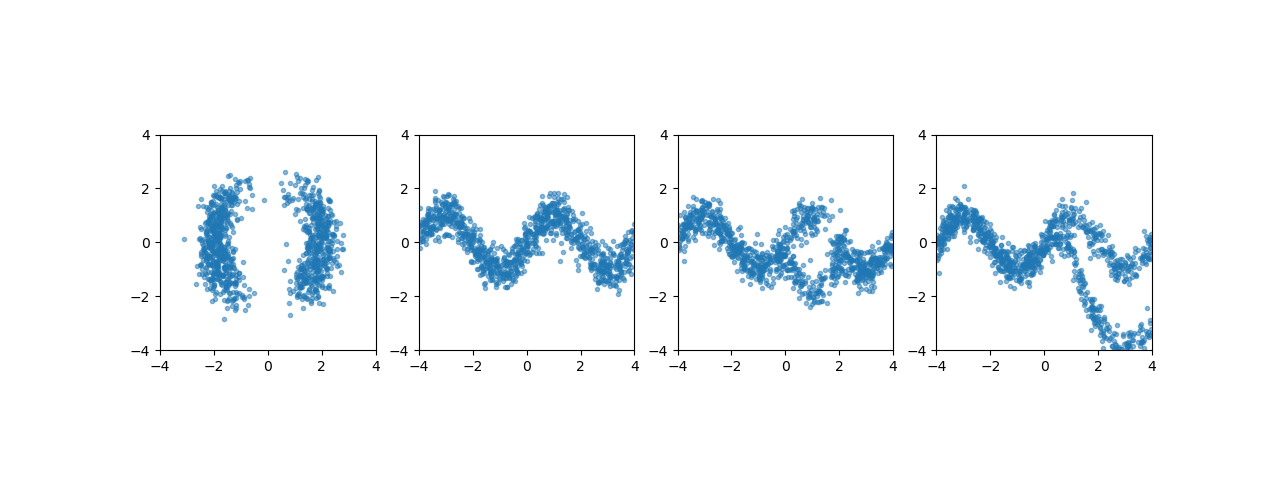
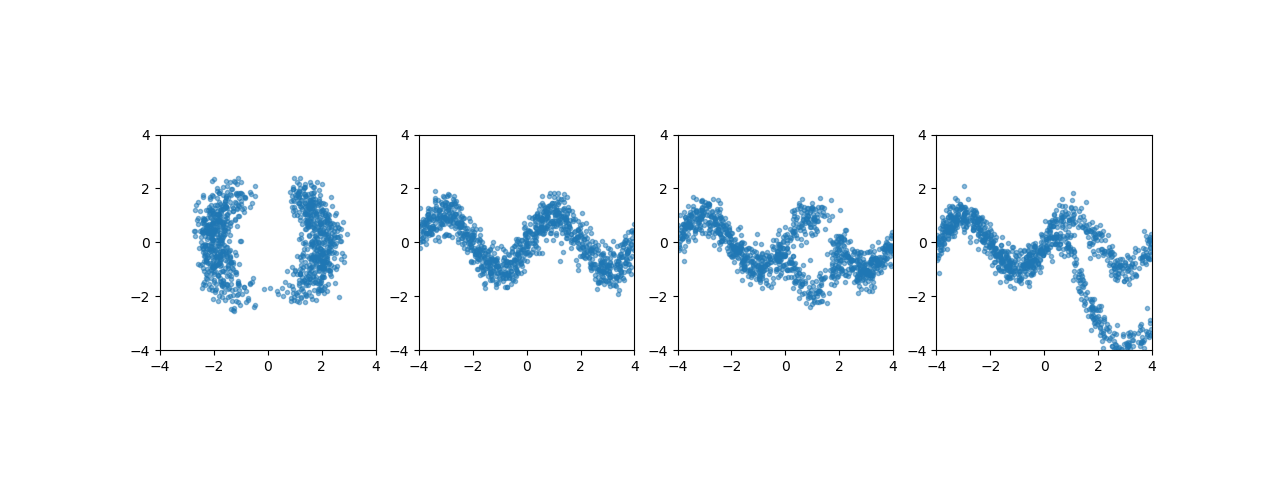
update figure

Changed region(s): [[0.125, 0.3438, 0.2812, 0.6562]]

diff --git a/script/functions.py b/script/functions.py
@@ -16,26 +16,26 @@ def compute_U1(z):
     mask = torch.ones_like(z)
     mask[:, 1] = 0.0
 
-    U = -(0.5*((torch.norm(z, dim = -1) - 2)/0.4)**2 - \
+    U = (0.5*((torch.norm(z, dim = -1) - 2)/0.4)**2 - \
              torch.sum(mask*torch.log(torch.exp(-0.5*((z - 2)/0.6)**2) +
                                       torch.exp(-0.5*((z + 2)/0.6)**2)), -1))    
     return U
 
 def compute_U2(z):
     w1 = torch.sin(2*math.pi*z[:,0]/4)
-    U = -0.5*((z[:,1] - w1)/0.4)**2    
+    U = 0.5*((z[:,1] - w1)/0.4)**2    
     return U
 
 def compute_U3(z):
     w1 = torch.sin(2*math.pi*z[:,0]/4)
     w2 = 3*torch.exp(-0.5*((z[:,0] - 1)/0.6)**2)
-    U = torch.log(torch.exp(-0.5*((z[:,1] - w1)/0.35)**2) + torch.exp(-0.5*((z[:,1] - w1 + w2)/0.35)**2))
+    U = -torch.log(torch.exp(-0.5*((z[:,1] - w1)/0.35)**2) + torch.exp(-0.5*((z[:,1] - w1 + w2)/0.35)**2))
     return U
     
 def compute_U4(z):
     w1 = torch.sin(2*math.pi*z[:,0]/4)
     w3 = 3*torch.sigmoid((z[:,0] - 1)/0.3)    
-    U = torch.log(torch.exp(-0.5*((z[:,1] - w1)/0.35)**2) + torch.exp(-0.5*((z[:,1] - w1 + w3)/0.35)**2))
+    U = -torch.log(torch.exp(-0.5*((z[:,1] - w1)/0.35)**2) + torch.exp(-0.5*((z[:,1] - w1 + w3)/0.35)**2))
     return U
 
 def _generate_grid():
@@ -55,25 +55,25 @@ def test_U():
     plt.subplot(1,4,1)
     U1 = compute_U1(z)
     U1 = U1.reshape(100, 100)    
-    p1 = torch.exp(U1)
+    p1 = torch.exp(-U1)
     plt.imshow(p1.T, origin = "lower", extent = (-4,4,-4,4))
     
     plt.subplot(1,4,2)
     U2 = compute_U2(z)
     U2 = U2.reshape(100, 100)    
-    p2 = torch.exp(U2)
+    p2 = torch.exp(-U2)
     plt.imshow(p2.T, origin = "lower", extent = (-4,4,-4,4))    
 
     plt.subplot(1,4,3)
     U3 = compute_U3(z)
     U3 = U3.reshape(100, 100)    
-    p3 = torch.exp(U3)
+    p3 = torch.exp(-U3)
     plt.imshow(p3.T, origin = "lower", extent = (-4,4,-4,4))    
     
     plt.subplot(1,4,4)
     U4 = compute_U4(z)
     U4 = U4.reshape(100, 100)    
-    p4 = torch.exp(U4)
+    p4 = torch.exp(-U4)
     plt.imshow(p4.T, origin = "lower", extent = (-4,4,-4,4))    
     
     plt.savefig("./output/true_prop.png")

diff --git a/script/learn_by_potential.py b/script/learn_by_potential.py
@@ -43,7 +43,7 @@ if torch.cuda.device_count():
     realNVP = realNVP.cuda()
     
 optimizer = optim.Adam(realNVP.parameters(), lr = 0.0001)
-num_steps = 10000
+num_steps = 5000
 
 ## the following loop learns the RealNVP_2D model by potential energy
 ## defined in the ./script/functions.py
@@ -52,7 +52,7 @@ for idx_step in range(num_steps):
     Z = Z.cuda()
     X, logdet = realNVP(Z)
 
-    logp = compute_U(X)
+    logp = -compute_U(X)
     loss = torch.mean(-logdet - logp)
     
     optimizer.zero_grad()
